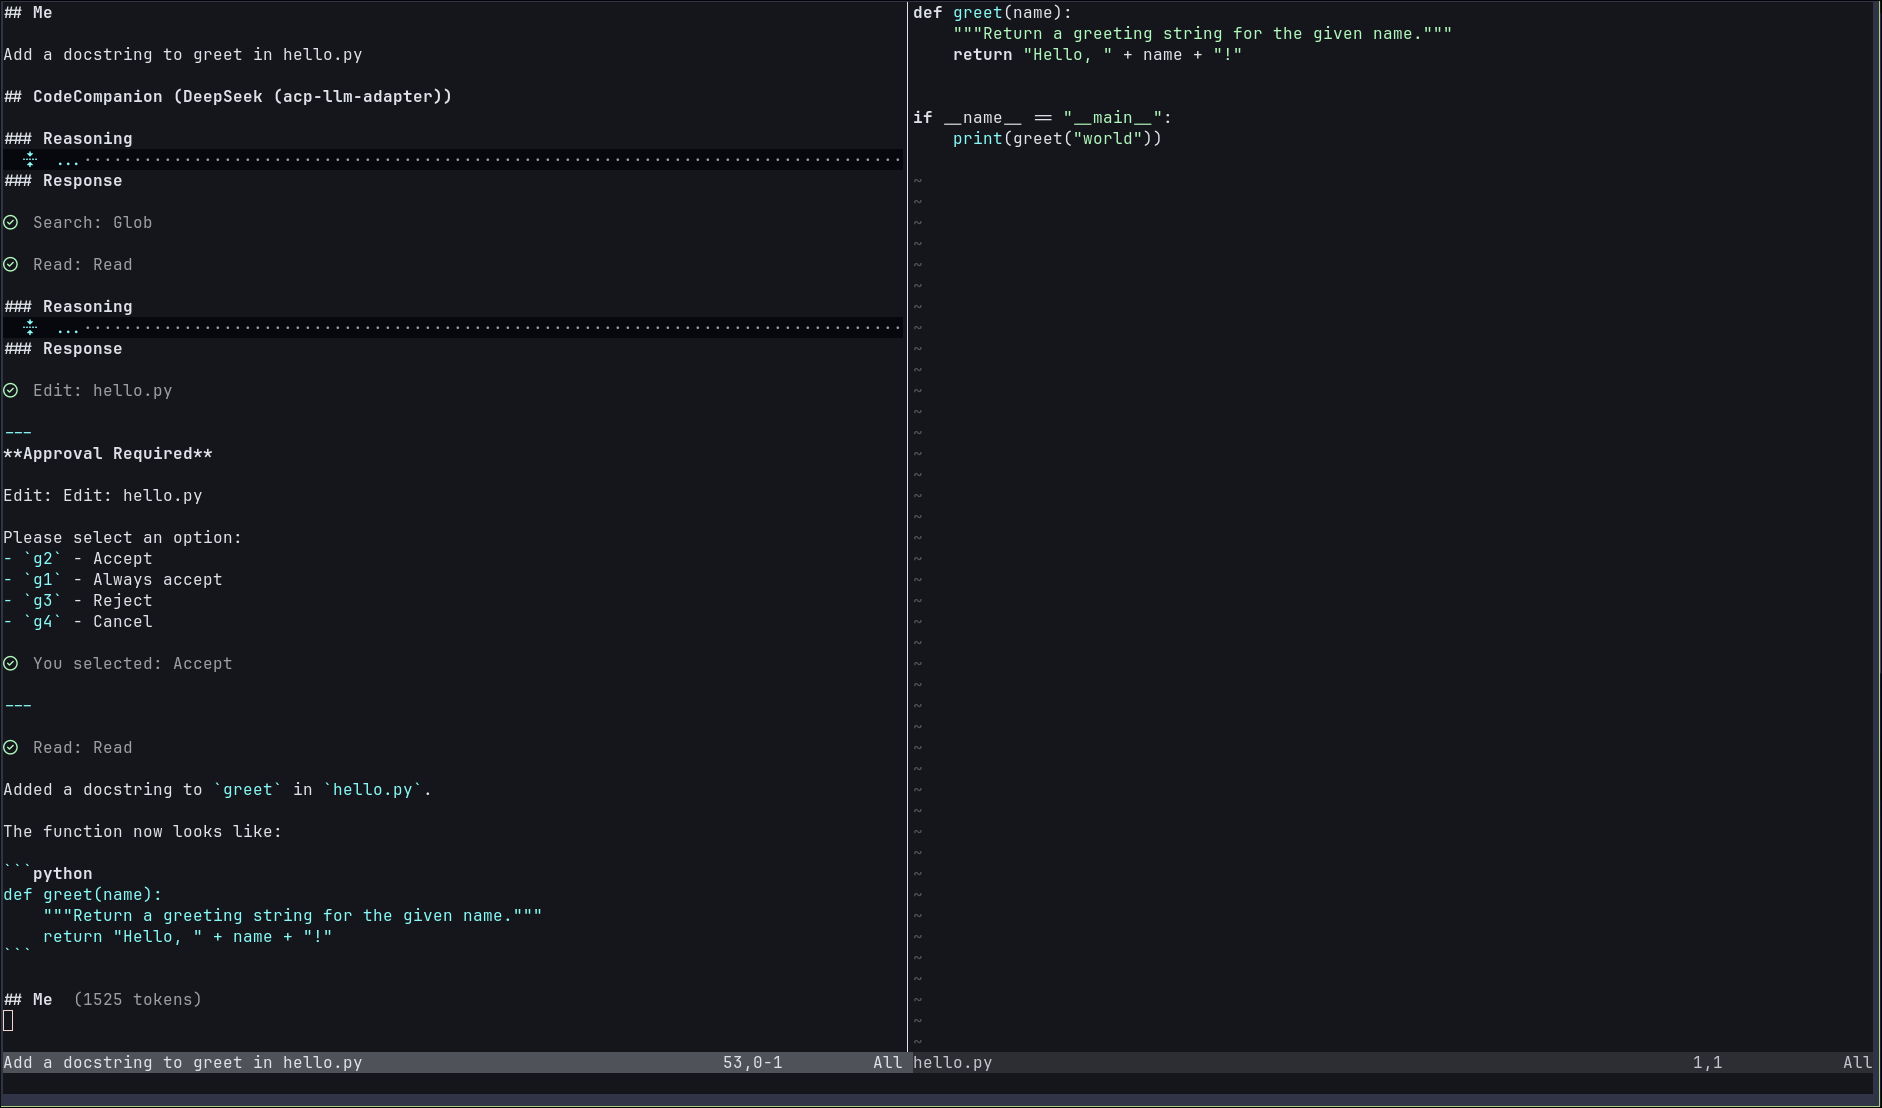
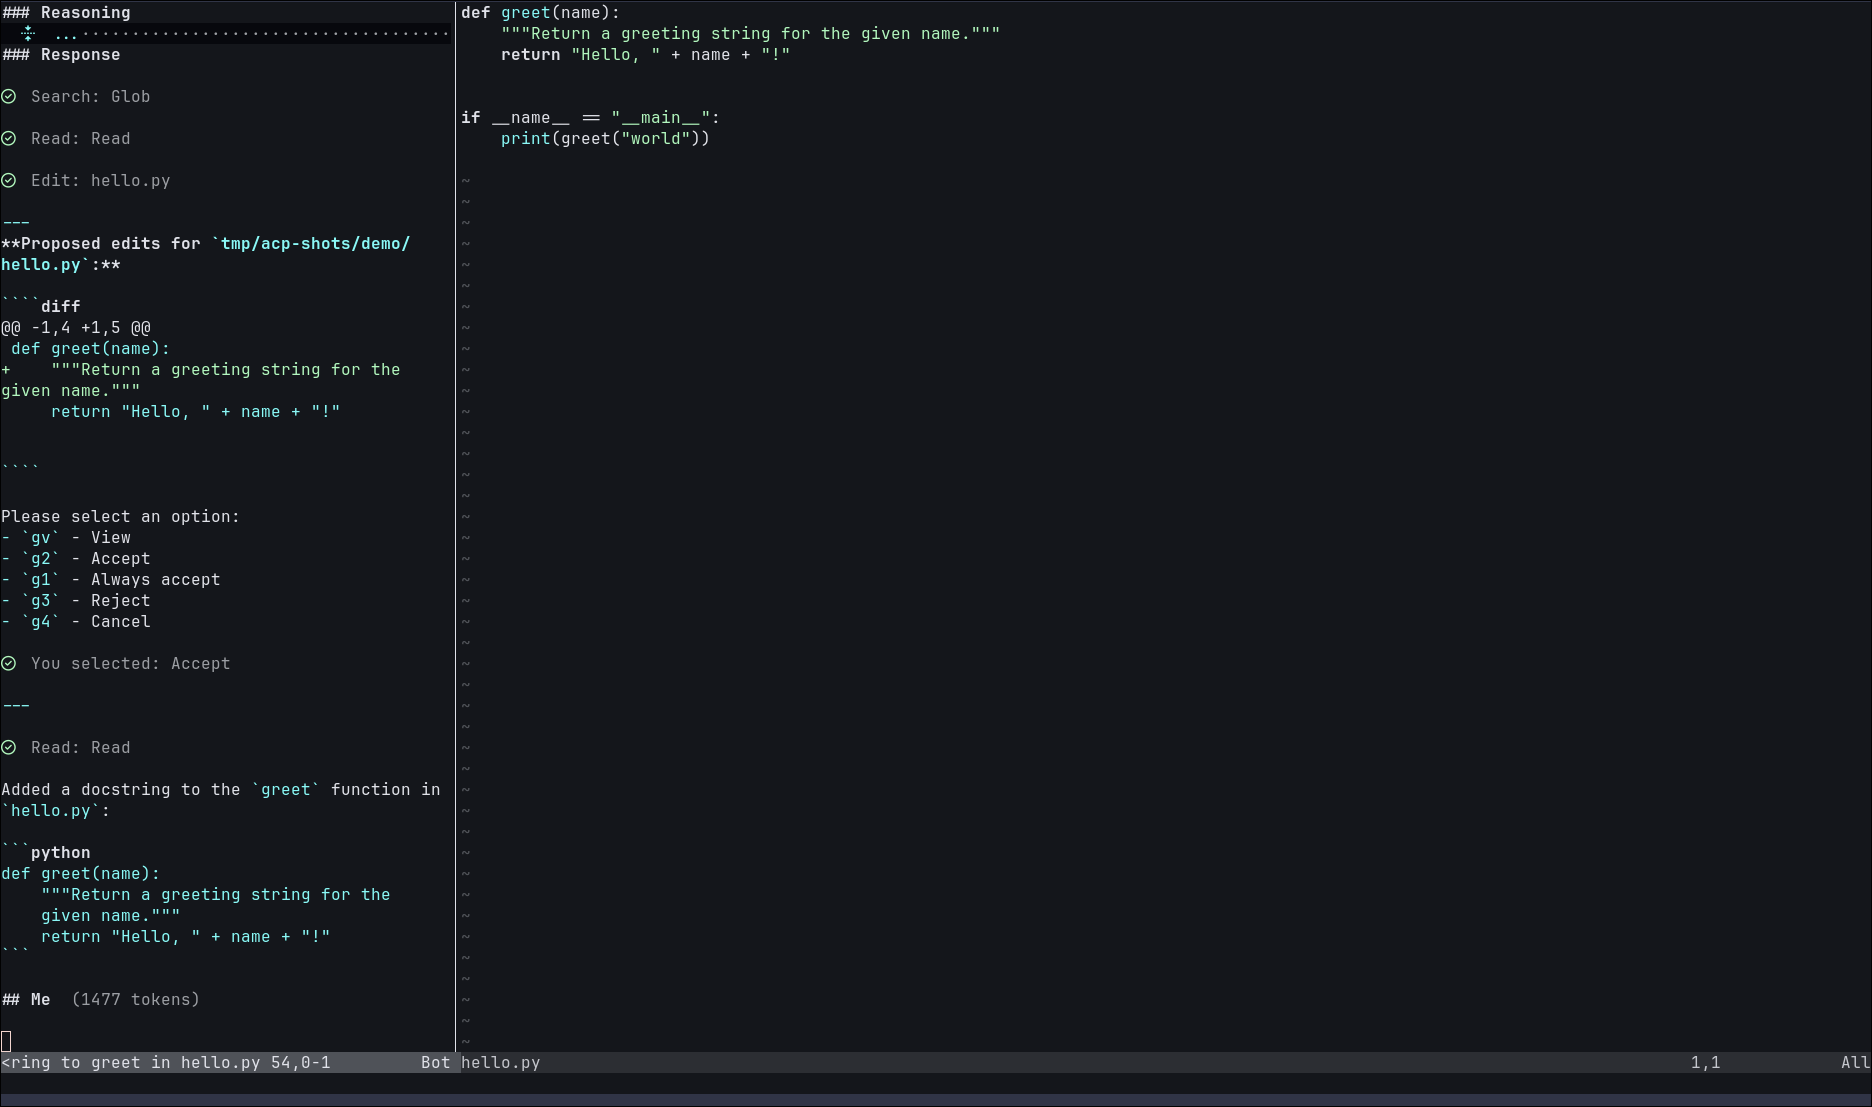
docs: show permission diff previews in Zed and CodeCompanion shots
Both editors now render the diff that 0.9.3 sends with file-edit
permission requests: Zed at "Awaiting Confirmation", CodeCompanion as
"Proposed edits" before Accept. The LouiseLM image waits for a plugin
release with its preview fix.

Refs daa-readme-shots-diff-preview-2x62
Refs claude/b9707559-6fe1-42c2-94af-e24e2b00aec8

diff --git a/README.md b/README.md
@@ -87,7 +87,7 @@ In the Agent Panel's new-thread menu, pick the external agent
 "DeepSeek (acp-llm-adapter)", not Zed's built-in agent. Tested with Zed 1.23.2,
 2026-10-09.
 
-![Zed Agent Panel running the DeepSeek (acp-llm-adapter) external agent, which reads and searches hello.py and answers](https://raw.githubusercontent.com/euri10/acp-llm-adapter/main/docs/images/zed.png)
+![Zed Agent Panel running the DeepSeek (acp-llm-adapter) external agent: the permission prompt shows the docstring diff for hello.py before approval](https://raw.githubusercontent.com/euri10/acp-llm-adapter/main/docs/images/zed.png)
 
 ### CodeCompanion
 
@@ -124,7 +124,7 @@ Then `:CodeCompanionChat`. Tested with CodeCompanion `v19.27.0` on Neovim
 > contents are sent to your provider. To opt out, add
 > `rules = { opts = { chat = { enabled = false } } }` to the setup table.
 
-![CodeCompanion chat with acp-llm-adapter: tool calls, an Approval Required prompt for the edit, and the updated hello.py](https://raw.githubusercontent.com/euri10/acp-llm-adapter/main/docs/images/codecompanion.png)
+![CodeCompanion chat with acp-llm-adapter: the approval step shows the proposed docstring diff for hello.py, then the accepted edit](https://raw.githubusercontent.com/euri10/acp-llm-adapter/main/docs/images/codecompanion.png)
 
 ## What you get
 
